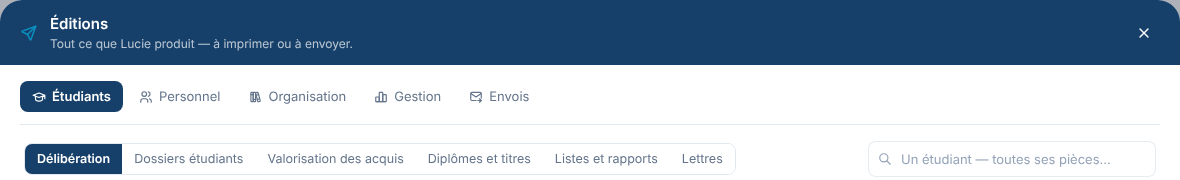
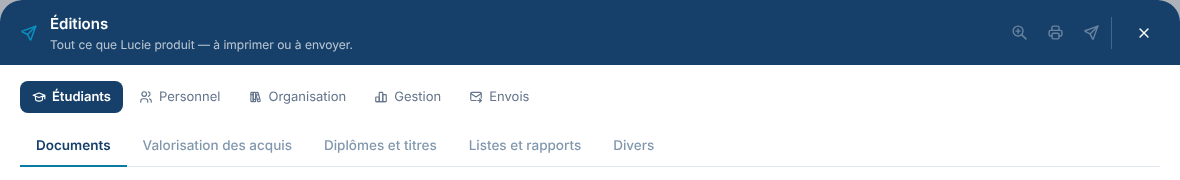
Éditions : Documents et Divers ; guide et nouveautés (essai)
Claude-Session: https://claude.ai/code/session_012qruWSafZoY4zbyAWnavcA

diff --git a/backend/src/lib/modeEmploi.js b/backend/src/lib/modeEmploi.js
@@ -10,7 +10,7 @@
  *   savoir — ce qu'il faut savoir : les règles qui bloquent ou qui surprennent.
  * Il explique le travail, pas l'informatique (CLAUDE.md, § 7). La version décrite se dit en tête.
  */
-export const VERSION_DECRITE = '3.1.496';
+export const VERSION_DECRITE = '3.1.497';
 
 export const RUBRIQUES = [
   {
@@ -895,20 +895,20 @@ export const RUBRIQUES = [
         ],
       },
       {
-        titre: "Étudiants : cinq familles",
-        ou: "Éditions → Étudiants.",
-        texte: "« Délibération » : choisissez la session, puis les pièces « À remettre aux étudiants » (attestations de réussite, motivations d'ajournement et de refus) et « Pour le Conseil » (PV, composition, grille). « Dossiers étudiants » : « Le parcours » (bulletin, PAE) et « L'inscription » (fiche, frais, annexes 1 et 2, pièces CEP). « Valorisation des acquis » : par unité. « Diplômes et titres ». « Listes et rapports ».",
+        titre: "Étudiants : « Pour qui ? »",
+        ou: "Éditions → Étudiants → Documents.",
+        texte: "La première question est « Pour qui ? ». « Une personne » : cherchez-la par son nom ou son matricule dans toute l'école, puis « ouvrir ses pièces » — de l'année, ou de tout son parcours. « Des étudiants » : une section, ses unités, des cases à cocher — leurs attestations de réussite, bulletin, PAE, fiche, frais, annexes, pièces CEP, de l'année ou de tout le parcours (une inspection : tout sortir vite). « Une séance » : l'année, la session, l'unité — « Pour le Conseil » (PV, composition, grille, ajournés par cours) et « Pour ses étudiants » (attestations, motivations d'ajournement et de refus). Les autres onglets : « Valorisation des acquis » (par unité), « Diplômes et titres », « Listes et rapports », « Divers » (les lettres composées dans l'atelier).",
         savoir: [
-          "Le périmètre : la section au menu, puis ses UE à cocher, puis leurs cours. La colonne « Reçoit » dit qui reçoit quoi.",
-          "Une pièce sans rien à produire est grisée (attestation sans réussite, ajournement hors 1re session…).",
-          "Mode SLE : cocher une annexe 1 ou 2 ne montre que les étudiants en séjour limité aux études ; les autres pièces se grisent.",
-          "Mode CEP : cocher une pièce CEP ne montre que les étudiants au congé-éducation payé de l'année (hors Flandre).",
-          "Le champ « Un étudiant — toutes ses pièces… » fait d'un étudiant le périmètre ; « revenir au périmètre » le quitte.",
-          "[[Produire … pièce(s) · … étudiant(s)|IconPrinter|fort]] imprime ; [[Envoyer|IconSend|sortir]] expédie par courriel, un document par personne, jamais de copie collective, à l'adresse d'école.",
+          "La session n'appartient qu'à la séance : une attestation de réussite n'en a pas besoin.",
+          "À droite, deux faces : « Documents » (ce qu'on sort) et « Étudiants » (qui le reçoit).",
+          "Une pièce sans rien à produire est grisée (attestation sans réussite, motivation de refus sans refus…).",
+          "Mode SLE : cocher une annexe 1 ou 2 ne montre que les étudiants en séjour limité aux études. Mode CEP : cocher une pièce CEP ne montre que les étudiants au congé-éducation payé de l'année (hors Flandre).",
+          "Dans la barre bleue : [[Aperçu|IconZoomIn]], [[Produire|IconPrinter]] et [[Envoyer|IconSend]] — par courriel, un document par personne, jamais de copie collective, à l'adresse d'école.",
         ],
         images: [
-          { src: "/guide/editions-deliberation.png", legende: "Famille « Délibération » (données d'essai) : le périmètre à gauche (année, session, section, unités), les pièces à cocher en deux colonnes, les étudiants en dessous ; une pièce sans rien à produire est grisée." },
-          { src: "/guide/editions-dossiers.png", legende: "Famille « Dossiers étudiants » : le parcours et l'inscription ; les annexes 1 et 2 portent le compte des SLE, les pièces CEP celui des étudiants au congé-éducation." },
+          { src: "/guide/editions-personne.png", legende: "« Une personne » (données d'essai) : le nom cherché à gauche, « ouvrir ses pièces » à droite." },
+          { src: "/guide/editions-groupe.png", legende: "« Des étudiants » : l'année ou tout le parcours, la section et ses unités ; à droite les résultats et l'inscription." },
+          { src: "/guide/editions-seance.png", legende: "« Une séance » : l'année, la session, l'unité ; « Pour le Conseil » et « Pour ses étudiants »." },
         ],
       },
       {

diff --git a/backend/assets/nouveautes/2026-11.html b/backend/assets/nouveautes/2026-11.html
@@ -60,6 +60,7 @@
       <li data-pour="coo dir"><b>La direction</b> tient le plan d'action qualité dans Lucie.</li>
       <li data-pour="sec dir"><b>La délibération</b> : la clôture ouvre la seconde session, et la liste de ce qui bloque la clôture se règle en un clic.</li>
       <li data-pour="ens sec coo dir"><b>Lucie s'installe sur le téléphone et l'iPad</b>, avec son icône, en plein écran.</li>
+      <li data-pour="sec coo dir"><b>Éditions</b> demande d'abord « Pour qui ? » : une personne, des étudiants, ou une séance.</li>
       <li data-pour="sec coo dir"><b>La liste des étudiants</b> a une barre plus simple, et une section se coche en un clic.</li>
     </ul>
   </div>
@@ -104,6 +105,13 @@
   <h3>Supprimer une séance qui porte des présences</h3>
   <p>Une séance de l'horaire où des présences ont été prises ne se supprime plus : elle s'<b>annule</b>. Les présences restent, et les attestations de congé-éducation aussi.</p>
   <div class="etiquettes"><span class="etiquette prod">À partir du 2 novembre</span></div>
+</article>
+
+<article class="nouveau" data-pour="sec coo dir">
+  <h3>Éditions : « Pour qui ? »</h3>
+  <span class="ou">Où : <b>l'avion → Étudiants → Documents</b>.</span>
+  <p>Une seule question d'abord : <b>une personne</b> (on la cherche dans toute l'école, puis ses pièces de l'année ou de tout son parcours), <b>des étudiants</b> (une section, des unités ; l'année ou tout le parcours — pour une inspection, tout sort en une fois), ou <b>une séance</b> (l'année, la session, l'unité : les pièces pour le Conseil et pour ses étudiants). La session ne se demande plus que pour une séance. « Délibération » et « Dossiers étudiants » laissent la place à « Documents » ; les lettres de l'atelier passent dans « Divers ». Aperçu, Produire et Envoyer sont dans la barre bleue.</p>
+  <div class="etiquettes"><span class="etiquette dev">À l'essai</span></div>
 </article>
 
 <h2>Pour tous</h2>

diff --git a/frontend/src/components/CentreImpressionCentral.jsx b/frontend/src/components/CentreImpressionCentral.jsx
@@ -2594,11 +2594,11 @@ export default function CentreImpressionCentral({ ongletInitial = 'etudiants',
               {/* « PIÈCES PAR ÉTUDIANT » SE COUPE EN DEUX (maquette validée,
                   2 octobre 2026) : ce qui demande une délibération, et le
                   dossier de l'étudiant, à tout moment. */}
-              {/* UN SEUL ONGLET « PIÈCES » (3.1.497) : la première question y est
+              {/* UN SEUL ONGLET « DOCUMENTS » (3.1.497) : la première question y est
                   « Pour qui ? » — une personne, des étudiants, une séance. */}
               <button onClick={() => setFamille('pieces')}
                 className={`onglet-page ${famille === 'pieces' ? 'onglet-page-actif' : ''}`}>
-                Pièces
+                Documents
               </button>
               {/* LA VALORISATION EST UNE FAMILLE À PART, ET NON UNE PIÈCE
                   « PAR ÉTUDIANT ». Le procès-verbal d'annexe 4 porte TOUS les
@@ -2622,7 +2622,7 @@ export default function CentreImpressionCentral({ ongletInitial = 'etudiants',
                   l'atelier de Lucie, une lettre par étudiant choisi. */}
               <button onClick={() => setFamille('lettres')}
                 className={`onglet-page ${famille === 'lettres' ? 'onglet-page-actif' : ''}`}>
-                Documents
+                Divers
               </button>
             </span>
           </div>

diff --git a/frontend/src/pages/Aide.jsx b/frontend/src/pages/Aide.jsx
@@ -17,7 +17,7 @@ const ICONES_BOUTON = { IconPlus, IconDeviceFloppy, IconCheck, IconTrash, IconDo
   IconRefresh, IconCopy, IconUserPlus, IconCalendarWeek, IconPlayerPlay, IconDots, IconMessage, IconBell, IconCalendarPlus,
   IconTicket, IconGift, IconSend, IconSearch, IconX, IconPencil, IconSettings, IconScale, IconHome, IconUsers, IconUserCheck,
   IconStairsUp, IconCertificate, IconAccessible, IconAward, IconBook, IconChecklist, IconChartBar, IconArrowRight, IconArrowLeft,
-  IconFileTypePdf, IconChevronRight };
+  IconFileTypePdf, IconChevronRight, IconZoomIn };
 function BoutonGuide({ libelle, icone, sorte }) {
   const I = ICONES_BOUTON[icone];
   const classe = sorte === 'fort' ? 'bouton bouton-fort' : sorte === 'sortir' ? 'bouton bouton-sortir' : sorte === 'detruire' ? 'bouton bouton-detruire' : 'bouton';

diff --git a/frontend/src/pages/Editeur.jsx b/frontend/src/pages/Editeur.jsx
@@ -168,7 +168,7 @@ function aplatirSurBlanc(src) {
 // ─── Champs simples ────────────────────────────────────────────────────────
 const CHAMPS = {
   /* L'ÉTUDIANT — pour les lettres individuelles, produites dans Éditions →
-     Étudiants → Lettres (une lettre par étudiant). */
+     Étudiants → Divers (une lettre par étudiant). */
   'Étudiant': [
     { key: 'etudiant.cher',          label: 'Formule d’appel (Chère Madame…)' },
     { key: 'etudiant.civilite',      label: 'Civilité (Madame / Monsieur)' },

diff --git a/frontend/src/components/TuileNouveautes.jsx b/frontend/src/components/TuileNouveautes.jsx
@@ -22,7 +22,7 @@ import { authHeaders, getUser } from '../lib/api.js';
  */
 const EDITION = '2026-11';
 // Le guide d'une édition s'enrichit : la révision rallume « Nouveau » sans changer de fichier.
-const REVISION = `${EDITION}.496`;
+const REVISION = `${EDITION}.497`;
 const DEPUIS = 'depuis le jeudi 8 octobre';
 const cleVu = () => `lucie.nouveautes.vu.${getUser()?.id || 'x'}`;
 

diff --git a/CLAUDE.md b/CLAUDE.md
@@ -2783,6 +2783,20 @@ circulé sans qu'on puisse dire qui l'avait sortie. « Je veux des traces. »
   `application/manifest+json`, sans cache. iPhone/iPad : Safari seulement, première connexion dans l'app (stockage
   séparé de Safari). Le portail des étudiants n'en a pas (choix de Charles : Lucie d'abord).
 
+- **ÉDITIONS : « POUR QUI ? »** (3.1.497, Charles, 30 octobre 2026 : « la session n'a pas de sens pour tout le
+  parcours » ; « délibération et dossiers étudiants, ce n'est pas logique » ; recommandation D validée sur logigramme).
+  Éditions → Étudiants : onglets **Documents** · Valorisation des acquis · Diplômes et titres · Listes et rapports ·
+  **Divers** (les lettres de l'atelier, `LettresModele`). « Délibération », « Dossiers étudiants » et « Pièces du
+  Conseil » ne sont plus des onglets. Dans Documents (`OngletEtudiants`, `pourQui`), la première question : **Une
+  personne** (recherche dans toute l'école, `/api/etudiants?q=`, puis « ouvrir ses pièces » — `seul`) · **Des
+  étudiants** (section, unités, cases ; l'année OU « Tout le parcours » = attestations de toutes les années,
+  `GET /attestations/etudiant/:id/document?annee=toutes&separes=1`) · **Une séance** (année, session, unité ; « Pour le
+  Conseil » et « Pour ses étudiants », `documents-lot`). **La session n'appartient qu'à la séance.** On arrive déjà
+  répondu : la fiche = une personne, la feuille de délibération (session, org, pièces du Conseil) = une séance.
+  Aperçu, Produire, Envoyer : icônes de la barre bleue (`outils` de `Fenetre`, portail `PlaceOutils`). À droite, deux
+  faces soulignées : Documents · Étudiants. Le dessin (lignes, alignements) reste à reprendre — Charles : « la logique
+  d'abord ».
+
 **L'ANNULER NE COMPARE QUE CE QUE LE GESTE A CHANGÉ** (3.1.482, Charles, 30 octobre 2026, en production :
   « Impossible d'annuler : utilisateur — la ligne a été modifiée depuis, par quelqu'un »). Se reconnecter écrit
   `last_login_at` sur la ligne du compte ; l'annulation comparait la ligne entière et refusait. Désormais elle ne
